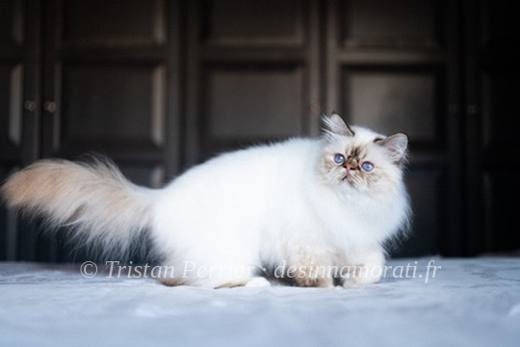
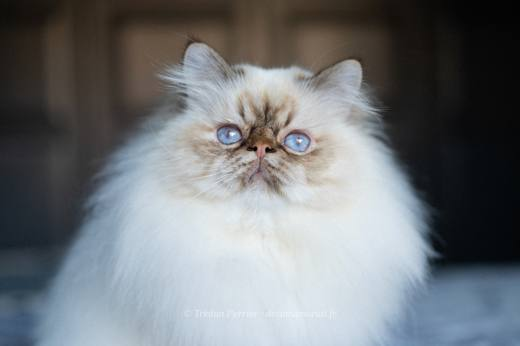
Peppone : portraits 2022 en haute définition
Claude-Session: https://claude.ai/code/session_013Na2xmnVTzgzPGqRaVu6gX

diff --git a/docs/chat/peppone-des-innamorati/index.html b/docs/chat/peppone-des-innamorati/index.html
@@ -31,10 +31,10 @@
 <main>
[1 lines of base64/hex data omitted]
 <section class="album-page"><div class="wrap">
-<div class="head"><div class="facts"><div><span class="label">Robe</span><span>Mâle · Chocolat tabby point</span></div><div><span class="label">Naissance</span><span>3 novembre 2019</span></div><div><span class="label">Parents</span><span><a href="../../chat/crowned-dream-kacey/">Crowned Dream Kacey</a> × <a href="../../chat/s-easy-love-s-crush-boom-bang/">S*Easy Love&#x27;s Crush Boom Bang</a></span></div><div><span class="label">Album</span><span>8 photos, de décembre 2019 à janvier 2021</span></div><div><span class="label">Demi-frères et sœurs</span><span>par sa mère : <a href="../../portees/#p-crowned-dream-kacey-origan-de-shweli-sittang-2019">2019 avec Origan de Shweli-Sittang</a>, <a href="../../portees/#p-crowned-dream-kacey-oedipe-des-innamorati-2021">2021 avec Oedipe</a>, <a href="../../portees/#p-crowned-dream-kacey-oedipe-des-innamorati-2022">2022 avec Oedipe</a>, <a href="../../portees/#p-crowned-dream-kacey-bacckara-s-bellamy-2023">2023 avec Bacckara&#x27;s Bellamy</a><br>par son père : <a href="../../portees/#p-malicia-du-castel-walou-crush-boom-bang-2018">2018 avec Malicia du Castel Walou</a>, <a href="../../portees/#p-crowned-dream-lizz-crush-boom-bang-2019">2019 avec Crowned Dream Lizz</a>, <a href="../../portees/#p-norma-jean-des-innamorati-crush-boom-bang-2019">2019 avec Norma Jean</a>, <a href="../../portees/#p-odyss-e-du-castel-walou-crush-boom-bang-2019">2019 avec Odyssée du Castel Walou</a></span></div></div></div>
+<div class="head"><div class="facts"><div><span class="label">Robe</span><span>Mâle · Chocolat tabby point</span></div><div><span class="label">Naissance</span><span>3 novembre 2019</span></div><div><span class="label">Parents</span><span><a href="../../chat/crowned-dream-kacey/">Crowned Dream Kacey</a> × <a href="../../chat/s-easy-love-s-crush-boom-bang/">S*Easy Love&#x27;s Crush Boom Bang</a></span></div><div><span class="label">Album</span><span>8 photos, de décembre 2019 à juillet 2022</span></div><div><span class="label">Demi-frères et sœurs</span><span>par sa mère : <a href="../../portees/#p-crowned-dream-kacey-origan-de-shweli-sittang-2019">2019 avec Origan de Shweli-Sittang</a>, <a href="../../portees/#p-crowned-dream-kacey-oedipe-des-innamorati-2021">2021 avec Oedipe</a>, <a href="../../portees/#p-crowned-dream-kacey-oedipe-des-innamorati-2022">2022 avec Oedipe</a>, <a href="../../portees/#p-crowned-dream-kacey-bacckara-s-bellamy-2023">2023 avec Bacckara&#x27;s Bellamy</a><br>par son père : <a href="../../portees/#p-malicia-du-castel-walou-crush-boom-bang-2018">2018 avec Malicia du Castel Walou</a>, <a href="../../portees/#p-crowned-dream-lizz-crush-boom-bang-2019">2019 avec Crowned Dream Lizz</a>, <a href="../../portees/#p-norma-jean-des-innamorati-crush-boom-bang-2019">2019 avec Norma Jean</a>, <a href="../../portees/#p-odyss-e-du-castel-walou-crush-boom-bang-2019">2019 avec Odyssée du Castel Walou</a></span></div></div></div>
 
 </div><div class="wrap">
-<div class="gallery"><a class="g-item" href="../../photos/1413510285496790.jpg" data-cap="16 décembre 2019 · Peppone des Innamorati   Mâle Chocolat Tabby Point  1 mois et demi (réservé)"><div class="ph"><img data-src="../../photos/t/1413510285496790.jpg" width="520" height="346" data-srcset="../../photos/t/1413510285496790.jpg 520w, ../../photos/1413510285496790.jpg 1400w" sizes="(max-width: 700px) 170px, 33vw" alt="Peppone di Brescello des Innamorati, 16 décembre 2019" loading="lazy" decoding="async"></div></a><a class="g-item" href="../../photos/ajout-93-1.jpg" data-cap="24 mars 2020"><div class="ph"><img data-src="../../photos/t/ajout-93-1.jpg" width="390" height="520" data-srcset="../../photos/t/ajout-93-1.jpg 520w, ../../photos/ajout-93-1.jpg 1400w" sizes="(max-width: 700px) 170px, 33vw" alt="Peppone di Brescello des Innamorati, 24 mars 2020" loading="lazy" decoding="async"></div></a><a class="g-item" href="../../photos/ajout-93-2.jpg" data-cap="24 mars 2020"><div class="ph"><img data-src="../../photos/t/ajout-93-2.jpg" width="390" height="520" data-srcset="../../photos/t/ajout-93-2.jpg 520w, ../../photos/ajout-93-2.jpg 1400w" sizes="(max-width: 700px) 170px, 33vw" alt="Peppone di Brescello des Innamorati, 24 mars 2020" loading="lazy" decoding="async"></div></a><a class="g-item" href="../../photos/ajout-93-3.jpg" data-cap=""><div class="ph"><img data-src="../../photos/t/ajout-93-3.jpg" width="520" height="347" data-srcset="../../photos/t/ajout-93-3.jpg 520w, ../../photos/ajout-93-3.jpg 1400w" sizes="(max-width: 700px) 170px, 33vw" alt="Peppone di Brescello des Innamorati" loading="lazy" decoding="async"></div></a><a class="g-item" href="../../photos/ajout-93-4.jpg" data-cap=""><div class="ph"><img data-src="../../photos/t/ajout-93-4.jpg" width="520" height="347" data-srcset="../../photos/t/ajout-93-4.jpg 520w, ../../photos/ajout-93-4.jpg 1400w" sizes="(max-width: 700px) 170px, 33vw" alt="Peppone di Brescello des Innamorati" loading="lazy" decoding="async"></div></a><a class="g-item" href="../../photos/ajout-93-5.jpg" data-cap=""><div class="ph"><img data-src="../../photos/t/ajout-93-5.jpg" width="520" height="347" data-srcset="../../photos/t/ajout-93-5.jpg 520w, ../../photos/ajout-93-5.jpg 1400w" sizes="(max-width: 700px) 170px, 33vw" alt="Peppone di Brescello des Innamorati" loading="lazy" decoding="async"></div></a><a class="g-item" href="../../photos/ajout-93-6.jpg" data-cap=""><div class="ph"><img data-src="../../photos/t/ajout-93-6.jpg" width="520" height="347" data-srcset="../../photos/t/ajout-93-6.jpg 520w, ../../photos/ajout-93-6.jpg 1400w" sizes="(max-width: 700px) 170px, 33vw" alt="Peppone di Brescello des Innamorati" loading="lazy" decoding="async"></div></a><a class="g-item" href="../../photos/ajout-93-7.jpg" data-cap=""><div class="ph"><img data-src="../../photos/t/ajout-93-7.jpg" width="520" height="347" data-srcset="../../photos/t/ajout-93-7.jpg 520w, ../../photos/ajout-93-7.jpg 1400w" sizes="(max-width: 700px) 170px, 33vw" alt="Peppone di Brescello des Innamorati" loading="lazy" decoding="async"></div></a></div>
+<div class="gallery"><a class="g-item" href="../../photos/1413510285496790.jpg" data-cap="16 décembre 2019 · Peppone des Innamorati   Mâle Chocolat Tabby Point  1 mois et demi (réservé)"><div class="ph"><img data-src="../../photos/t/1413510285496790.jpg" width="520" height="346" data-srcset="../../photos/t/1413510285496790.jpg 520w, ../../photos/1413510285496790.jpg 1400w" sizes="(max-width: 700px) 170px, 33vw" alt="Peppone di Brescello des Innamorati, 16 décembre 2019" loading="lazy" decoding="async"></div></a><a class="g-item" href="../../photos/ajout-93-1.jpg" data-cap="24 mars 2020"><div class="ph"><img data-src="../../photos/t/ajout-93-1.jpg" width="390" height="520" data-srcset="../../photos/t/ajout-93-1.jpg 520w, ../../photos/ajout-93-1.jpg 1400w" sizes="(max-width: 700px) 170px, 33vw" alt="Peppone di Brescello des Innamorati, 24 mars 2020" loading="lazy" decoding="async"></div></a><a class="g-item" href="../../photos/ajout-93-2.jpg" data-cap="24 mars 2020"><div class="ph"><img data-src="../../photos/t/ajout-93-2.jpg" width="390" height="520" data-srcset="../../photos/t/ajout-93-2.jpg 520w, ../../photos/ajout-93-2.jpg 1400w" sizes="(max-width: 700px) 170px, 33vw" alt="Peppone di Brescello des Innamorati, 24 mars 2020" loading="lazy" decoding="async"></div></a><a class="g-item" href="../../photos/ajout-93-3.jpg" data-cap="4 avril 2022"><div class="ph"><img data-src="../../photos/t/ajout-93-3.jpg" width="520" height="346" data-srcset="../../photos/t/ajout-93-3.jpg 520w, ../../photos/ajout-93-3.jpg 1400w" sizes="(max-width: 700px) 170px, 33vw" alt="Peppone di Brescello des Innamorati, 4 avril 2022" loading="lazy" decoding="async"></div></a><a class="g-item" href="../../photos/ajout-93-4.jpg" data-cap="4 avril 2022"><div class="ph"><img data-src="../../photos/t/ajout-93-4.jpg" width="520" height="346" data-srcset="../../photos/t/ajout-93-4.jpg 520w, ../../photos/ajout-93-4.jpg 1400w" sizes="(max-width: 700px) 170px, 33vw" alt="Peppone di Brescello des Innamorati, 4 avril 2022" loading="lazy" decoding="async"></div></a><a class="g-item" href="../../photos/ajout-93-5.jpg" data-cap="19 juillet 2022"><div class="ph"><img data-src="../../photos/t/ajout-93-5.jpg" width="520" height="346" data-srcset="../../photos/t/ajout-93-5.jpg 520w, ../../photos/ajout-93-5.jpg 1400w" sizes="(max-width: 700px) 170px, 33vw" alt="Peppone di Brescello des Innamorati, 19 juillet 2022" loading="lazy" decoding="async"></div></a><a class="g-item" href="../../photos/ajout-93-6.jpg" data-cap="19 juillet 2022"><div class="ph"><img data-src="../../photos/t/ajout-93-6.jpg" width="520" height="346" data-srcset="../../photos/t/ajout-93-6.jpg 520w, ../../photos/ajout-93-6.jpg 1400w" sizes="(max-width: 700px) 170px, 33vw" alt="Peppone di Brescello des Innamorati, 19 juillet 2022" loading="lazy" decoding="async"></div></a><a class="g-item" href="../../photos/ajout-93-7.jpg" data-cap="19 juillet 2022"><div class="ph"><img data-src="../../photos/t/ajout-93-7.jpg" width="520" height="346" data-srcset="../../photos/t/ajout-93-7.jpg 520w, ../../photos/ajout-93-7.jpg 1400w" sizes="(max-width: 700px) 170px, 33vw" alt="Peppone di Brescello des Innamorati, 19 juillet 2022" loading="lazy" decoding="async"></div></a></div>
 
 
 <p class="prot">Photos réduites et marquées. Elles appartiennent à la Chatterie des Innamorati et ne peuvent pas être reprises dans une annonce.</p>

diff --git a/docs/en/cat/peppone-des-innamorati/index.html b/docs/en/cat/peppone-des-innamorati/index.html
@@ -31,10 +31,10 @@
 <main>
[1 lines of base64/hex data omitted]
 <section class="album-page"><div class="wrap">
-<div class="head"><div class="facts"><div><span class="label">Color</span><span>Male · Chocolate tabby point</span></div><div><span class="label">Born</span><span>November 3, 2019</span></div><div><span class="label">Parents</span><span><a href="/en/cat/crowned-dream-kacey/">Crowned Dream Kacey</a> × <a href="/en/cat/s-easy-love-s-crush-boom-bang/">S*Easy Love&#x27;s Crush Boom Bang</a></span></div><div><span class="label">Album</span><span>8 photos, from December 2019 to January 2021</span></div><div><span class="label">Half-siblings</span><span>through the mother: <a href="/en/litters/#p-crowned-dream-kacey-origan-de-shweli-sittang-2019">2019 with Origan de Shweli-Sittang</a>, <a href="/en/litters/#p-crowned-dream-kacey-oedipe-des-innamorati-2021">2021 with Oedipe</a>, <a href="/en/litters/#p-crowned-dream-kacey-oedipe-des-innamorati-2022">2022 with Oedipe</a>, <a href="/en/litters/#p-crowned-dream-kacey-bacckara-s-bellamy-2023">2023 with Bacckara&#x27;s Bellamy</a><br>through the father: <a href="/en/litters/#p-malicia-du-castel-walou-crush-boom-bang-2018">2018 with Malicia du Castel Walou</a>, <a href="/en/litters/#p-crowned-dream-lizz-crush-boom-bang-2019">2019 with Crowned Dream Lizz</a>, <a href="/en/litters/#p-norma-jean-des-innamorati-crush-boom-bang-2019">2019 with Norma Jean</a>, <a href="/en/litters/#p-odyss-e-du-castel-walou-crush-boom-bang-2019">2019 with Odyssée du Castel Walou</a></span></div></div></div>
+<div class="head"><div class="facts"><div><span class="label">Color</span><span>Male · Chocolate tabby point</span></div><div><span class="label">Born</span><span>November 3, 2019</span></div><div><span class="label">Parents</span><span><a href="/en/cat/crowned-dream-kacey/">Crowned Dream Kacey</a> × <a href="/en/cat/s-easy-love-s-crush-boom-bang/">S*Easy Love&#x27;s Crush Boom Bang</a></span></div><div><span class="label">Album</span><span>8 photos, from December 2019 to July 2022</span></div><div><span class="label">Half-siblings</span><span>through the mother: <a href="/en/litters/#p-crowned-dream-kacey-origan-de-shweli-sittang-2019">2019 with Origan de Shweli-Sittang</a>, <a href="/en/litters/#p-crowned-dream-kacey-oedipe-des-innamorati-2021">2021 with Oedipe</a>, <a href="/en/litters/#p-crowned-dream-kacey-oedipe-des-innamorati-2022">2022 with Oedipe</a>, <a href="/en/litters/#p-crowned-dream-kacey-bacckara-s-bellamy-2023">2023 with Bacckara&#x27;s Bellamy</a><br>through the father: <a href="/en/litters/#p-malicia-du-castel-walou-crush-boom-bang-2018">2018 with Malicia du Castel Walou</a>, <a href="/en/litters/#p-crowned-dream-lizz-crush-boom-bang-2019">2019 with Crowned Dream Lizz</a>, <a href="/en/litters/#p-norma-jean-des-innamorati-crush-boom-bang-2019">2019 with Norma Jean</a>, <a href="/en/litters/#p-odyss-e-du-castel-walou-crush-boom-bang-2019">2019 with Odyssée du Castel Walou</a></span></div></div></div>
 
 </div><div class="wrap">
-<div class="gallery"><a class="g-item" href="/photos/1413510285496790.jpg" data-cap="December 16, 2019"><div class="ph"><img data-src="/photos/t/1413510285496790.jpg" width="520" height="346" data-srcset="/photos/t/1413510285496790.jpg 520w, /photos/1413510285496790.jpg 1400w" sizes="(max-width: 700px) 170px, 33vw" alt="Peppone di Brescello des Innamorati, December 16, 2019" loading="lazy" decoding="async"></div></a><a class="g-item" href="/photos/ajout-93-1.jpg" data-cap="March 24, 2020"><div class="ph"><img data-src="/photos/t/ajout-93-1.jpg" width="390" height="520" data-srcset="/photos/t/ajout-93-1.jpg 520w, /photos/ajout-93-1.jpg 1400w" sizes="(max-width: 700px) 170px, 33vw" alt="Peppone di Brescello des Innamorati, March 24, 2020" loading="lazy" decoding="async"></div></a><a class="g-item" href="/photos/ajout-93-2.jpg" data-cap="March 24, 2020"><div class="ph"><img data-src="/photos/t/ajout-93-2.jpg" width="390" height="520" data-srcset="/photos/t/ajout-93-2.jpg 520w, /photos/ajout-93-2.jpg 1400w" sizes="(max-width: 700px) 170px, 33vw" alt="Peppone di Brescello des Innamorati, March 24, 2020" loading="lazy" decoding="async"></div></a><a class="g-item" href="/photos/ajout-93-3.jpg" data-cap=""><div class="ph"><img data-src="/photos/t/ajout-93-3.jpg" width="520" height="347" data-srcset="/photos/t/ajout-93-3.jpg 520w, /photos/ajout-93-3.jpg 1400w" sizes="(max-width: 700px) 170px, 33vw" alt="Peppone di Brescello des Innamorati" loading="lazy" decoding="async"></div></a><a class="g-item" href="/photos/ajout-93-4.jpg" data-cap=""><div class="ph"><img data-src="/photos/t/ajout-93-4.jpg" width="520" height="347" data-srcset="/photos/t/ajout-93-4.jpg 520w, /photos/ajout-93-4.jpg 1400w" sizes="(max-width: 700px) 170px, 33vw" alt="Peppone di Brescello des Innamorati" loading="lazy" decoding="async"></div></a><a class="g-item" href="/photos/ajout-93-5.jpg" data-cap=""><div class="ph"><img data-src="/photos/t/ajout-93-5.jpg" width="520" height="347" data-srcset="/photos/t/ajout-93-5.jpg 520w, /photos/ajout-93-5.jpg 1400w" sizes="(max-width: 700px) 170px, 33vw" alt="Peppone di Brescello des Innamorati" loading="lazy" decoding="async"></div></a><a class="g-item" href="/photos/ajout-93-6.jpg" data-cap=""><div class="ph"><img data-src="/photos/t/ajout-93-6.jpg" width="520" height="347" data-srcset="/photos/t/ajout-93-6.jpg 520w, /photos/ajout-93-6.jpg 1400w" sizes="(max-width: 700px) 170px, 33vw" alt="Peppone di Brescello des Innamorati" loading="lazy" decoding="async"></div></a><a class="g-item" href="/photos/ajout-93-7.jpg" data-cap=""><div class="ph"><img data-src="/photos/t/ajout-93-7.jpg" width="520" height="347" data-srcset="/photos/t/ajout-93-7.jpg 520w, /photos/ajout-93-7.jpg 1400w" sizes="(max-width: 700px) 170px, 33vw" alt="Peppone di Brescello des Innamorati" loading="lazy" decoding="async"></div></a></div>
+<div class="gallery"><a class="g-item" href="/photos/1413510285496790.jpg" data-cap="December 16, 2019"><div class="ph"><img data-src="/photos/t/1413510285496790.jpg" width="520" height="346" data-srcset="/photos/t/1413510285496790.jpg 520w, /photos/1413510285496790.jpg 1400w" sizes="(max-width: 700px) 170px, 33vw" alt="Peppone di Brescello des Innamorati, December 16, 2019" loading="lazy" decoding="async"></div></a><a class="g-item" href="/photos/ajout-93-1.jpg" data-cap="March 24, 2020"><div class="ph"><img data-src="/photos/t/ajout-93-1.jpg" width="390" height="520" data-srcset="/photos/t/ajout-93-1.jpg 520w, /photos/ajout-93-1.jpg 1400w" sizes="(max-width: 700px) 170px, 33vw" alt="Peppone di Brescello des Innamorati, March 24, 2020" loading="lazy" decoding="async"></div></a><a class="g-item" href="/photos/ajout-93-2.jpg" data-cap="March 24, 2020"><div class="ph"><img data-src="/photos/t/ajout-93-2.jpg" width="390" height="520" data-srcset="/photos/t/ajout-93-2.jpg 520w, /photos/ajout-93-2.jpg 1400w" sizes="(max-width: 700px) 170px, 33vw" alt="Peppone di Brescello des Innamorati, March 24, 2020" loading="lazy" decoding="async"></div></a><a class="g-item" href="/photos/ajout-93-3.jpg" data-cap="April 4, 2022"><div class="ph"><img data-src="/photos/t/ajout-93-3.jpg" width="520" height="346" data-srcset="/photos/t/ajout-93-3.jpg 520w, /photos/ajout-93-3.jpg 1400w" sizes="(max-width: 700px) 170px, 33vw" alt="Peppone di Brescello des Innamorati, April 4, 2022" loading="lazy" decoding="async"></div></a><a class="g-item" href="/photos/ajout-93-4.jpg" data-cap="April 4, 2022"><div class="ph"><img data-src="/photos/t/ajout-93-4.jpg" width="520" height="346" data-srcset="/photos/t/ajout-93-4.jpg 520w, /photos/ajout-93-4.jpg 1400w" sizes="(max-width: 700px) 170px, 33vw" alt="Peppone di Brescello des Innamorati, April 4, 2022" loading="lazy" decoding="async"></div></a><a class="g-item" href="/photos/ajout-93-5.jpg" data-cap="July 19, 2022"><div class="ph"><img data-src="/photos/t/ajout-93-5.jpg" width="520" height="346" data-srcset="/photos/t/ajout-93-5.jpg 520w, /photos/ajout-93-5.jpg 1400w" sizes="(max-width: 700px) 170px, 33vw" alt="Peppone di Brescello des Innamorati, July 19, 2022" loading="lazy" decoding="async"></div></a><a class="g-item" href="/photos/ajout-93-6.jpg" data-cap="July 19, 2022"><div class="ph"><img data-src="/photos/t/ajout-93-6.jpg" width="520" height="346" data-srcset="/photos/t/ajout-93-6.jpg 520w, /photos/ajout-93-6.jpg 1400w" sizes="(max-width: 700px) 170px, 33vw" alt="Peppone di Brescello des Innamorati, July 19, 2022" loading="lazy" decoding="async"></div></a><a class="g-item" href="/photos/ajout-93-7.jpg" data-cap="July 19, 2022"><div class="ph"><img data-src="/photos/t/ajout-93-7.jpg" width="520" height="346" data-srcset="/photos/t/ajout-93-7.jpg 520w, /photos/ajout-93-7.jpg 1400w" sizes="(max-width: 700px) 170px, 33vw" alt="Peppone di Brescello des Innamorati, July 19, 2022" loading="lazy" decoding="async"></div></a></div>
 
 
 <p class="prot">Photos are downsized and watermarked. They belong to the Chatterie des Innamorati and may not be used in any listing.</p>
